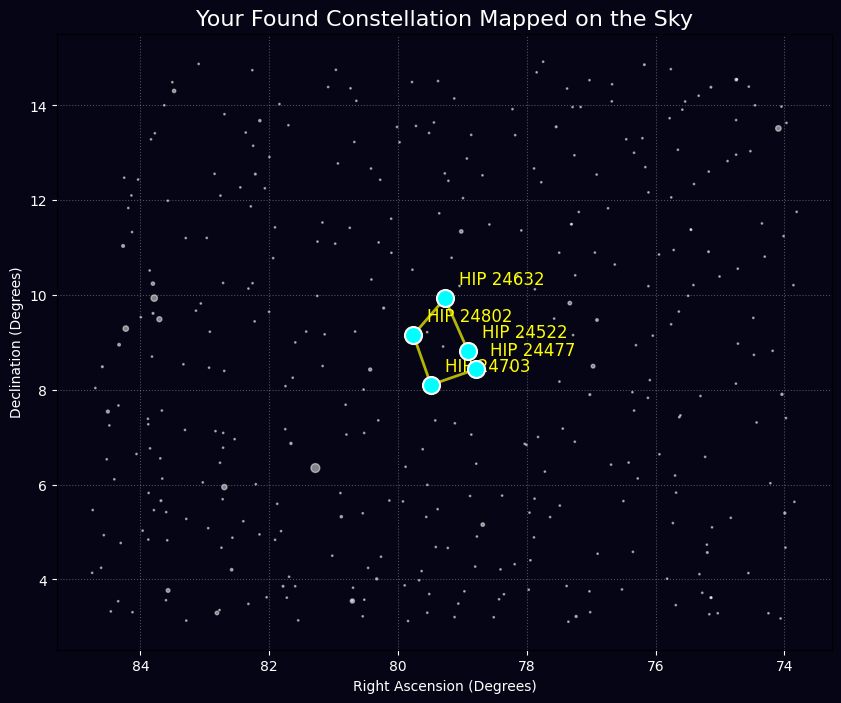
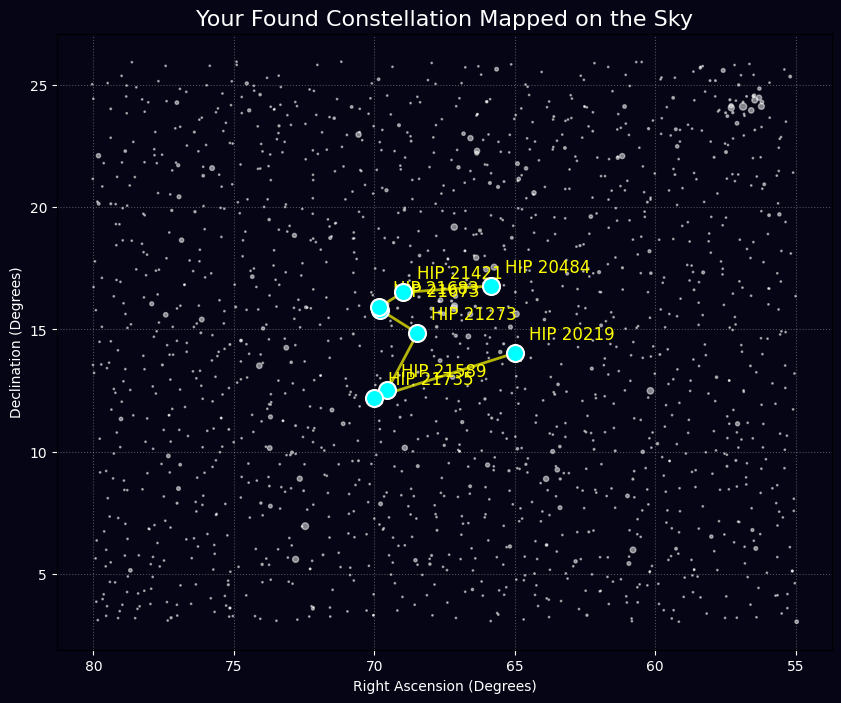
Working canvas

diff --git a/constellocate/app/src/components/canvas.tsx b/constellocate/app/src/components/canvas.tsx
@@ -2,9 +2,10 @@ import Button from "@/app/components/ui/Button";
 import Image from "next/image";
 import { useCallback, useEffect, useRef, useState } from "react";
 import { Point } from "../lib/douglas-peucker";
+import Constellation from "./constellation-viewer";
 
 interface canvasProps {
-    onSubmit: (vertices: Point[]) => Promise<{star: string, pos: {x: number, y: number}}[]>
+    onSubmit: (vertices: Point[]) => Promise<{hips: number[], vertices: Point[]}>
 }
 
 export default function Canvas({ onSubmit } : canvasProps) {
@@ -16,7 +17,8 @@ export default function Canvas({ onSubmit } : canvasProps) {
     const [canvasSize, setCanvasSize] = useState({ width: 0, height: 0 })
     const [brushSize] = useState(3)
     const [isLoading, setLoading] = useState<boolean>(false);
-    const [constellation, setConstellation] = useState<{star: string, pos: {x: number, y: number}}[]>([]);
+    const [constellation, setConstellation] = useState<{hips: number[], vertices: Point[]}>({hips: [], vertices: []});
+    const [isConstellation, setIsConstellation] = useState<boolean>(false);
 
 
     useEffect(() => {
@@ -117,7 +119,7 @@ export default function Canvas({ onSubmit } : canvasProps) {
 
     return (
         <div>
-            {!isLoading ? (
+            {!isLoading && !isConstellation ? (
             <div ref={containerRef} className="relative cursor-crosshair overflow-hidden h-screen">
                 <canvas 
                     ref={canvasRef}
@@ -138,9 +140,8 @@ export default function Canvas({ onSubmit } : canvasProps) {
                             setLoading(true);
                             const stars = await onSubmit(paths.flat());
                             setConstellation(stars);
+                            setIsConstellation(true);
                             setLoading(false);
-             
-                           
                         }} />
                     
                         <Button text="Undo"
@@ -167,7 +168,7 @@ export default function Canvas({ onSubmit } : canvasProps) {
             </div>
             
             
-            ) : (
+            ) : ( isLoading && !isConstellation ? (
                 <main className="flex flex-col items-center justify-center gap-6 relative z-50">
                 {/* UIverse Loader */}
                 <div className="container">
@@ -216,8 +217,9 @@ export default function Canvas({ onSubmit } : canvasProps) {
                 Loading your constillations...
                 </h1>
             </main>
-                // <Image src={constellationMap} alt="Constellation Map" fill/>
-        
+            ) : (
+                <Constellation stars={constellation}/>
+            )
             )}
         </div>
     )

diff --git a/constellocate/app/src/components/constellation-viewer.tsx b/constellocate/app/src/components/constellation-viewer.tsx
@@ -1,35 +1,73 @@
 import { useEffect, useRef } from "react";
+import { Point } from "../lib/douglas-peucker";
 
 interface ConstellationProps {
-    stars: {star: string, pos: {x: number, y: number}}[],
+    stars: {hips: number[], vertices: Point[]},
 }
 
 export default function Constellation({ stars }: ConstellationProps) {
     const canvasRef = useRef<HTMLCanvasElement>(null);
 
   useEffect(() => {
-    const canvas = canvasRef.current;
-    if (!canvas) return;
+  const canvas = canvasRef.current;
+  if (!canvas) return;
 
-    const ctx = canvas.getContext("2d");
-    if (!ctx) return;
+  const ctx = canvas.getContext("2d");
+  if (!ctx) return;
 
-    // Clear canvas
-    ctx.clearRect(0, 0, canvas.width, canvas.height);
+  const dpr = window.devicePixelRatio || 1;
+  const rect = canvas.getBoundingClientRect();
+  canvas.width = rect.width * dpr;
+  canvas.height = rect.height * dpr;
+  ctx.scale(dpr, dpr);
 
-    // Fill background
-    ctx.fillRect(0, 0, canvas.width, canvas.height);
+  ctx.clearRect(0, 0, rect.width, rect.height);
 
-    // Draw each label
-    ctx.fillStyle = "#fff"; // white text
-    ctx.font = "16px Arial";
+  const count = Math.min(stars.hips.length, stars.vertices.length);
+  if (count === 0) return;
+
+  // --- 1. Draw the Path (Connect the dots) ---
+  ctx.beginPath();
+  ctx.strokeStyle = "rgba(100, 160, 240, 0.3)"; // Faint blue/white line
+  ctx.lineWidth = 1;
+  ctx.lineJoin = "round";
+
+  for (let i = 0; i < count; i++) {
+    const v = stars.vertices[i];
+    const x = v.x * rect.width;
+    const y = v.y * rect.height;
+
+    if (i === 0) {
+      ctx.moveTo(x, y);
+    } else {
+      ctx.lineTo(x, y);
+    }
+  }
+  ctx.stroke();
+
+  // --- 2. Draw Stars and Labels ---
+  for (let i = 0; i < count; i++) {
+    const vertex = stars.vertices[i];
+    const x = vertex.x * rect.width;
+    const y = vertex.y * rect.height;
+
+    // Draw star (Circle)
+    ctx.beginPath();
+    ctx.arc(x, y, 2.5, 0, Math.PI * 2);
+    ctx.fillStyle = "#fff";
+    ctx.fill();
+
+    // Draw ID (Small and offset)
+    ctx.font = "10px Inter, sans-serif";
+    ctx.fillStyle = "rgba(255, 255, 255, 0.5)";
     ctx.textAlign = "center";
-    ctx.textBaseline = "middle";
+    ctx.fillText(stars.hips[i].toString(), x, y + 15); // Offset below the dot
+  }
+}, [stars]);
 
-    stars.forEach((star) => {
-      ctx.fillText(star.star, star.pos.x, star.pos.y);
-    });
-  }, [stars]);
-
-  return <canvas ref={canvasRef} className="absolute inset-0 w-full h-full z-10"/>;
+  return (
+        <div className="relative cursor-crosshair overflow-hidden h-screen">
+            <canvas ref={canvasRef} className="absolute inset-0 w-full h-full z-10"/>
+        </div>
+    )
 }

diff --git a/constellocate/app/main/page.tsx b/constellocate/app/main/page.tsx
@@ -36,10 +36,10 @@ async function handleSubmit(points: Point[]) {
     }),
   });
 
-  const data = await res.json() as {star: string, pos: {x: number, y: number}}[];
+  const data = await res.json() as {hips: number[], averageVmag: number}[];
   console.log(data);
 
-  return data;
+  return { hips: data[0].hips, vertices: vertices };
 }
 
   return (
